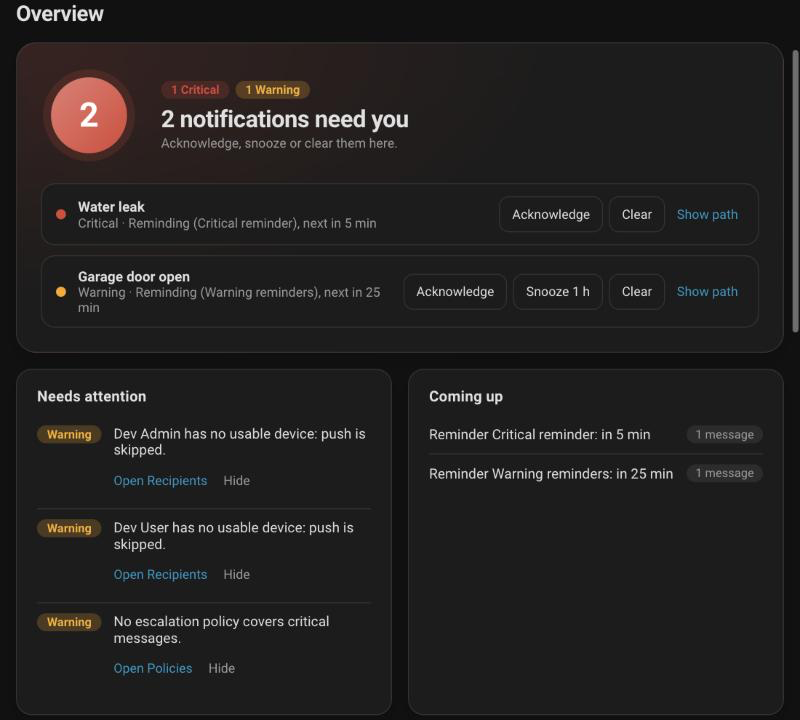
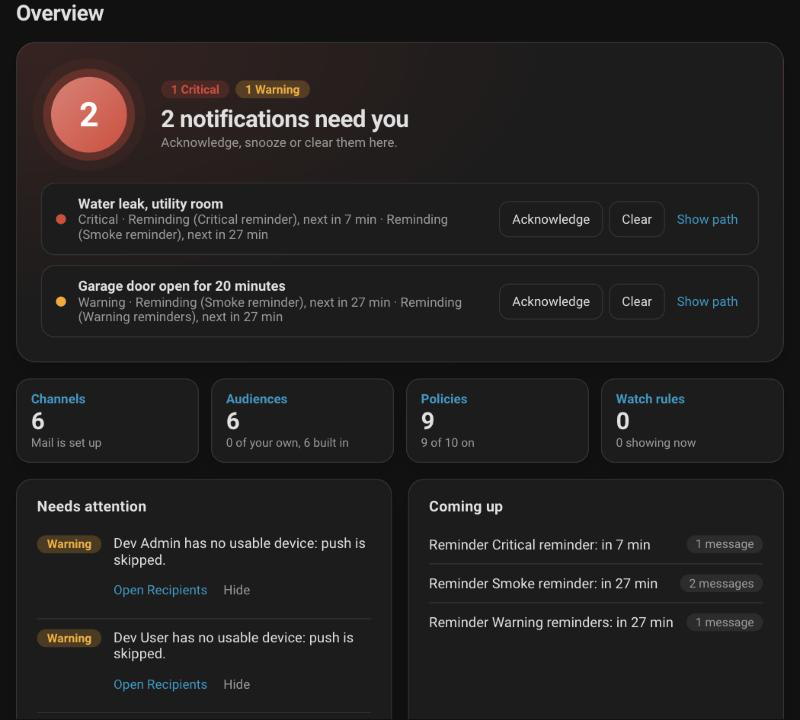
Quick shortcuts under the Overview's status card
Four small cards open Channels, Audiences, Policies and Watch rules, each
with a number and one line. New screenshot, docs and a vitest case.

diff --git a/custom_components/heads_up/frontend/panel/overview.js b/custom_components/heads_up/frontend/panel/overview.js
@@ -132,6 +132,17 @@ export const STRINGS = {
     source_kind_tag: "Tag",
     source_other: "Other calls (no ID or tag)",
     source_test: "Test send",
+    sc_label: "Quick shortcuts",
+    sc_channels: "Channels",
+    sc_audiences: "Audiences",
+    sc_policies: "Policies",
+    sc_rules: "Watch rules",
+    sc_channels_mail_on: "Mail is set up",
+    sc_channels_mail_off: "Mail is not set up",
+    sc_audiences_sub: "{custom} of your own, {builtin} built in",
+    sc_policies_sub: "{enabled} of {total} on",
+    sc_rules_sub: "{showing} showing now",
+    sc_open: "Open {page}",
     first_run: "No policies yet. The introduction explains a few defaults you can switch on.",
     first_run_button: "Restart introduction",
     ph_attention: "Problems with your setup show up here.",
@@ -272,6 +283,17 @@ export const STRINGS = {
     source_kind_tag: "Tag",
     source_other: "Andere Aufrufe (ohne ID und Tag)",
     source_test: "Test senden",
+    sc_label: "Schnellzugriff",
+    sc_channels: "Kanäle",
+    sc_audiences: "Zielgruppen",
+    sc_policies: "Richtlinien",
+    sc_rules: "Überwachungsregeln",
+    sc_channels_mail_on: "E-Mail ist eingerichtet",
+    sc_channels_mail_off: "E-Mail ist nicht eingerichtet",
+    sc_audiences_sub: "{custom} eigene, {builtin} eingebaute",
+    sc_policies_sub: "{enabled} von {total} an",
+    sc_rules_sub: "{showing} werden gerade gezeigt",
+    sc_open: "{page} öffnen",
     first_run: "Noch keine Richtlinien. Die Einführung erklärt ein paar Standards, die du einschalten kannst.",
     first_run_button: "Einführung neu starten",
     ph_attention: "Probleme mit deiner Einrichtung erscheinen hier.",
@@ -412,6 +434,17 @@ export const STRINGS = {
     source_kind_tag: "Étiquette",
     source_other: "Autres appels (sans ID ni étiquette)",
     source_test: "Envoi test",
+    sc_label: "Raccourcis",
+    sc_channels: "Canaux",
+    sc_audiences: "Audiences",
+    sc_policies: "Politiques",
+    sc_rules: "Règles de surveillance",
+    sc_channels_mail_on: "Le courriel est configuré",
+    sc_channels_mail_off: "Le courriel n'est pas configuré",
+    sc_audiences_sub: "{custom} à vous, {builtin} intégrées",
+    sc_policies_sub: "{enabled} sur {total} actives",
+    sc_rules_sub: "{showing} affichées en ce moment",
+    sc_open: "Ouvrir {page}",
     first_run: "Aucune politique pour l'instant. L'introduction explique quelques réglages par défaut que vous pouvez activer.",
     first_run_button: "Relancer l'introduction",
     ph_attention: "Les problèmes de votre configuration apparaissent ici.",
@@ -552,6 +585,17 @@ export const STRINGS = {
     source_kind_tag: "Etiqueta",
     source_other: "Otras llamadas (sin ID ni etiqueta)",
     source_test: "Envío de prueba",
+    sc_label: "Accesos rápidos",
+    sc_channels: "Canales",
+    sc_audiences: "Audiencias",
+    sc_policies: "Políticas",
+    sc_rules: "Reglas de vigilancia",
+    sc_channels_mail_on: "El correo está configurado",
+    sc_channels_mail_off: "El correo no está configurado",
+    sc_audiences_sub: "{custom} propias, {builtin} integradas",
+    sc_policies_sub: "{enabled} de {total} activas",
+    sc_rules_sub: "{showing} mostrándose ahora",
+    sc_open: "Abrir {page}",
     first_run: "Aún no hay políticas. La introducción explica algunos valores por defecto que puedes activar.",
     first_run_button: "Reiniciar la introducción",
     ph_attention: "Los problemas de tu configuración aparecen aquí.",
@@ -657,6 +701,18 @@ export function pathLines(entries, s, fmt) {
     else lines.push({ text, time: entry.time, n: 1 });
   }
   return lines;
+}
+
+// The four small cards under the status card: the page each opens, a number and one line.
+export function shortcutCards(data, t) {
+  const sc = data.shortcuts;
+  const rules = data.rules;
+  return [
+    { page: "channels", title: t.sc_channels, big: sc.channels.total, sub: sc.channels.mail ? t.sc_channels_mail_on : t.sc_channels_mail_off },
+    { page: "audiences", title: t.sc_audiences, big: sc.audiences.builtin + sc.audiences.custom, sub: fill(t.sc_audiences_sub, sc.audiences) },
+    { page: "policies", title: t.sc_policies, big: sc.policies.enabled, sub: fill(t.sc_policies_sub, sc.policies) },
+    { page: "rules", title: t.sc_rules, big: rules.enabled, sub: fill(t.sc_rules_sub, { showing: rules.showing }) },
+  ];
 }
 
 // The bars of the activity chart: one per hour, oldest first, stacked by severity (the least
@@ -918,6 +974,13 @@ const CSS = `
 .hu-overview .act .pill.state-active { background: color-mix(in srgb, var(--hu-info) 18%, transparent); color: var(--hu-info); }
 .hu-overview .srcbar .nm { display: flex; align-items: baseline; gap: 6px; min-width: 0; overflow-wrap: anywhere; }
 .hu-overview .srcbar .kind { font-size: 11px; color: var(--secondary-text-color); white-space: nowrap; }
+
+.hu-overview .shortcuts { display: grid; grid-template-columns: repeat(auto-fit, minmax(150px, 1fr)); gap: 12px; margin: 0 0 16px; }
+.hu-overview button.shortcut { display: grid; gap: 1px; justify-items: start; text-align: left; padding: 12px 14px; min-height: 76px; border-radius: 14px; border: 1px solid var(--divider-color); background: var(--card-background-color); box-shadow: var(--hu-shadow); transition: transform .12s, border-color .12s; }
+.hu-overview button.shortcut:hover { transform: translateY(-1px); border-color: var(--primary-color); }
+.hu-overview button.shortcut .name { font-size: 13px; font-weight: 600; color: var(--primary-color); }
+.hu-overview button.shortcut .big { font-size: 24px; font-weight: 700; line-height: 1.15; letter-spacing: -.02em; }
+.hu-overview button.shortcut .sub { font-size: 12px; }
 @keyframes hu-rise { from { opacity: 0; transform: translateY(10px); } to { opacity: 1; transform: none; } }
 @keyframes hu-pulse { 0% { box-shadow: 0 0 0 8px color-mix(in srgb, var(--hero-tint) 30%, transparent), 0 0 0 18px color-mix(in srgb, var(--hero-tint) 7%, transparent); } 100% { box-shadow: 0 0 0 8px color-mix(in srgb, var(--hero-tint) 14%, transparent), 0 0 0 26px transparent; } }
 @keyframes hu-grow { from { transform: scaleY(0); opacity: 0; } to { transform: scaleY(1); opacity: 1; } }
@@ -1029,6 +1092,22 @@ export function mount(container, ctx) {
     button.setAttribute("aria-expanded", String(open));
     button.addEventListener("click", () => togglePath(id));
     return button;
+  }
+
+  function shortcutRow() {
+    const row = el("div", { className: "shortcuts" });
+    row.setAttribute("aria-label", t.sc_label);
+    for (const card of shortcutCards(data, t)) {
+      const button = el("button", { type: "button", className: "shortcut" }, [
+        el("span", { className: "name", textContent: card.title }),
+        el("span", { className: "big", textContent: String(card.big) }),
+        el("span", { className: "sub", textContent: card.sub }),
+      ]);
+      button.setAttribute("aria-label", `${fill(t.sc_open, { page: card.title })}: ${card.big}, ${card.sub}`);
+      button.addEventListener("click", () => ctx.navigate(card.page));
+      row.append(button);
+    }
+    return row;
   }
 
   function statusCard() {
@@ -1324,6 +1403,7 @@ export function mount(container, ctx) {
         root.append(el("div", { className: "hint" }, [el("span", { textContent: t.first_run }), go]));
       }
       if (data.status.count > 0) root.append(statusCard());
+      root.append(shortcutRow());
       root.append(
         el("div", { className: "pair" }, [
           data.attention.length ? attentionCard() : placeholder(t.attention, t.ph_attention),
@@ -1334,7 +1414,7 @@ export function mount(container, ctx) {
       );
       return;
     }
-    root.append(statusCard(), el("div", { className: "pair" }, [attentionCard(), comingCard()]), lastActionsCard(), reachCard(), ...activityCards(intro));
+    root.append(statusCard(), shortcutRow(), el("div", { className: "pair" }, [attentionCard(), comingCard()]), lastActionsCard(), reachCard(), ...activityCards(intro));
   }
 
   async function loadStats() {

diff --git a/tests/card/panel.test.js b/tests/card/panel.test.js
@@ -221,6 +221,7 @@ import {
   matrixModel,
   PERIODS,
   actionRow,
+  shortcutCards,
   sourceRows,
   pathLines,
   statusHeadline,
@@ -449,6 +450,22 @@ describe("overview functions", () => {
   it("has a name for every period in every language", () => {
     for (const [code, language] of Object.entries(OVERVIEW_STRINGS)) for (const period of PERIODS) expect(language[`period_${period}`], `${code}.${period}`).toBeTruthy();
     expect(OVERVIEW_STRINGS.en.period_2y).toBe("2 years");
+  });
+
+  it("builds the four shortcut cards with the page, a number and one line each", () => {
+    const data = {
+      shortcuts: { channels: { total: 6, mail: false }, audiences: { builtin: 6, custom: 2 }, policies: { total: 7, enabled: 5 } },
+      rules: { enabled: 3, showing: 1 },
+    };
+    const cards = shortcutCards(data, t);
+    expect(cards.map((c) => [c.page, c.title, c.big])).toEqual([
+      ["channels", "Channels", 6],
+      ["audiences", "Audiences", 8],
+      ["policies", "Policies", 5],
+      ["rules", "Watch rules", 3],
+    ]);
+    expect(cards.map((c) => c.sub)).toEqual(["Mail is not set up", "2 of your own, 6 built in", "5 of 7 on", "1 showing now"]);
+    expect(shortcutCards({ ...data, shortcuts: { ...data.shortcuts, channels: { total: 6, mail: true } } }, t)[0].sub).toBe("Mail is set up");
   });
 
   it("counts messages with the right plural", () => {

diff --git a/docs/setup.md b/docs/setup.md
@@ -101,6 +101,7 @@ Six groups in a top row: Overview, Configuration, Banner watch rules, Settings, 
 The page refreshes every 10 seconds. From the top:
 
 - Status: all clear, or the number of critical and warning messages nobody has acknowledged. Each message has Acknowledge (only while an escalation or reminder policy applies), Snooze 1 h (warnings that allow snoozing), Clear (after a confirmation; a watch rule's message has none, so disable or delete the rule) and Show path, which lists what happened to the message, oldest step first.
+- Quick shortcuts: four small cards under the status card for Channels, Audiences, Policies and Watch rules. Each shows a number (the six channels, the audiences, the policies that are on, the watch rules that are on) and one line, such as whether mail is set up or how many watch rules are showing a message. A card opens its page.
 - Needs attention: each problem with a button to the page that fixes it. Errors are a watch rule on a missing entity, a device without a notify service, a speaker group without an existing speaker, a speaker group with a media player and no usable text-to-speech engine, an invalid policy and a policy that names a deleted audience. Warnings are a person without a usable device, sends that failed in the last 24 hours and no escalation policy for critical messages. Each warning has a Hide button; errors cannot be hidden.
 - Coming up: what is about to happen, earliest first. Escalations and reminders that are due, the next summary with the number of messages waiting for it, and the messages held by quiet hours with the time they are sent. It says "Nothing is scheduled." when there is nothing.
 - Last actions: the six newest messages, one row each. A row has the title (or the text), the severity, whether the message is active, acknowledged or ended and why, where it came from (a watch rule, the ID of the call, or Test send) and what became of it: how many deliveries were sent, held, skipped or failed with the reasons, who acknowledged and after how long. Chips show escalations, reminders, the policy that held it and the channels that failed. Show path lists the steps oldest first. All messages opens the Message Log.

diff --git a/CHANGELOG.md b/CHANGELOG.md
@@ -48,6 +48,7 @@ All notable changes are listed here. Format: [Keep a Changelog](https://keepacha
 - New Overview. A status card lists the critical and warning messages nobody has acknowledged, with Acknowledge, Snooze 1 h, Clear and Show path. Coming up lists escalations, reminders, the next summary and the deliveries quiet hours hold, with a time and a count. The table "What would a message do right now?" shows for each channel and severity whether a message would make a sound, show, arrive quietly, wait, be skipped or not be set up, worked out by the same engine that delivers. Last actions rows can show the path of a message.
 - The introduction is part of the Overview instead of a window. Step 2 sets the mail notify service, the global address and the speech engine, and saves them when you leave it. Step 3 shows the six built-in audiences with the people in them. Step 4 names the groups of policies and says how many policies Create makes. Settings > Restart introduction opens it on the Overview.
 - Last to leave and First home remember when they happened; the introduction shows the time.
+- Quick shortcuts under the Overview's status card: Channels, Audiences, Policies and Watch rules, each with a number and one line.
 - Last actions on the Overview lists the six newest messages, one row each, with where it came from, what became of it, who acknowledged and after how long. Top sources lists calls by their ID or tag instead of lumping them together.
 - Activity on the Overview reads a history of the last 24 months, one record of counts per day, stored on disk and kept across restarts. Choose 24 hours, Week, Month, Year or 2 years: notifications with the change against the period before, delivered, median time to acknowledge, messages held by quiet hours, a chart by severity, a weekday-by-hour grid and the top sources. Settings > Activity history shows its size and clears it. Diagnostics list its size and range, not its counts.
 

diff --git a/docs/DESIGN.md b/docs/DESIGN.md
@@ -968,3 +968,6 @@ Plan and verified facts: `docs/dev/overview-redesign/PLAN.md`. This section reco
 - `panel_overview` returns `last_actions` (`panel_data.last_actions`): the six newest messages from the recent messages, one row each, without summaries. A row has `id`, `title`, `message`, `severity`, `source` (`kind` rule or action, rule name), `time` (the end or the creation), `state` (active, acknowledged, ended), `end_reason`, `results` (sent, held, skipped, failed over delivery channels), the two most common `problems` (reason and count), `failed_on`, `held_by` (policy names), `acknowledged` (`by`, `seconds`), `escalated` and `reminded` (counts from the log). The raw `log` stays in the payload for the Message Log's use and tests. The page words a row with `actionRow`.
 - Sources of the history (`engine.source_key`): a watch rule by its rule ID; a call by the ID its author chose (`id:<id>`), else by its tag (`tag:<tag>`), else `action`; an ID the integration made up (`hu_` and ten hex characters) counts as no ID; Test send is `test`. At most 60 sources per day, the rest count as `action`. Records written before this change keep `action` for every call.
 - Both cards have the heading with an "All messages" link, as in the mockup; a source shows its kind next to its name.
+
+### 27.6 Quick shortcuts
+- Four small cards directly under the status card (and under the introduction on the first launch): Channels (the six channels; mail set up or not), Audiences (built in and your own), Policies (on of all) and Watch rules (on; how many show a message now). They use `shortcuts` and `rules` of `panel_overview`; a card opens its page (`channels`, `audiences`, `policies`, `rules`). `shortcutCards` builds them and is tested in vitest.

diff --git a/README.md b/README.md
@@ -51,7 +51,7 @@ When something did not arrive, the Message Log tells you why. It lists each chan
 2. Go to Settings > Devices & services > Add integration > Heads Up. Leave "Show Heads Up in the sidebar" on: it adds the panel, visible to administrators.
 3. Open Heads Up in the sidebar. The Overview starts with a four-step introduction: what Heads Up does, the channels, the audiences with the people in them now, and four default policies. The default policies are critical messages pushed at once to the administrators, warnings repeated every 30 minutes up to three times, an evening summary and quiet hours at night. Policies are created only in the last step, and Not now creates none.
 
-   <img src="https://raw.githubusercontent.com/Seyphaton/ha-heads-up/main/docs/images/overview-active.png" width="480" alt="The Heads Up Overview: two notifications that need you, with Acknowledge, Snooze, Clear and Show path buttons, then Needs attention and Coming up side by side">
+   <img src="https://raw.githubusercontent.com/Seyphaton/ha-heads-up/main/docs/images/overview-active.png" width="480" alt="The Heads Up Overview: two notifications that need you, with Acknowledge, Snooze, Clear and Show path buttons, four quick shortcuts, then Needs attention and Coming up side by side">
 
 4. Open Test & Logs > Test send. Pick channels and an audience, and the table shows who would get the message on which channel, or why not. Send test sends one real message, which ends by itself after 10 minutes.
 
